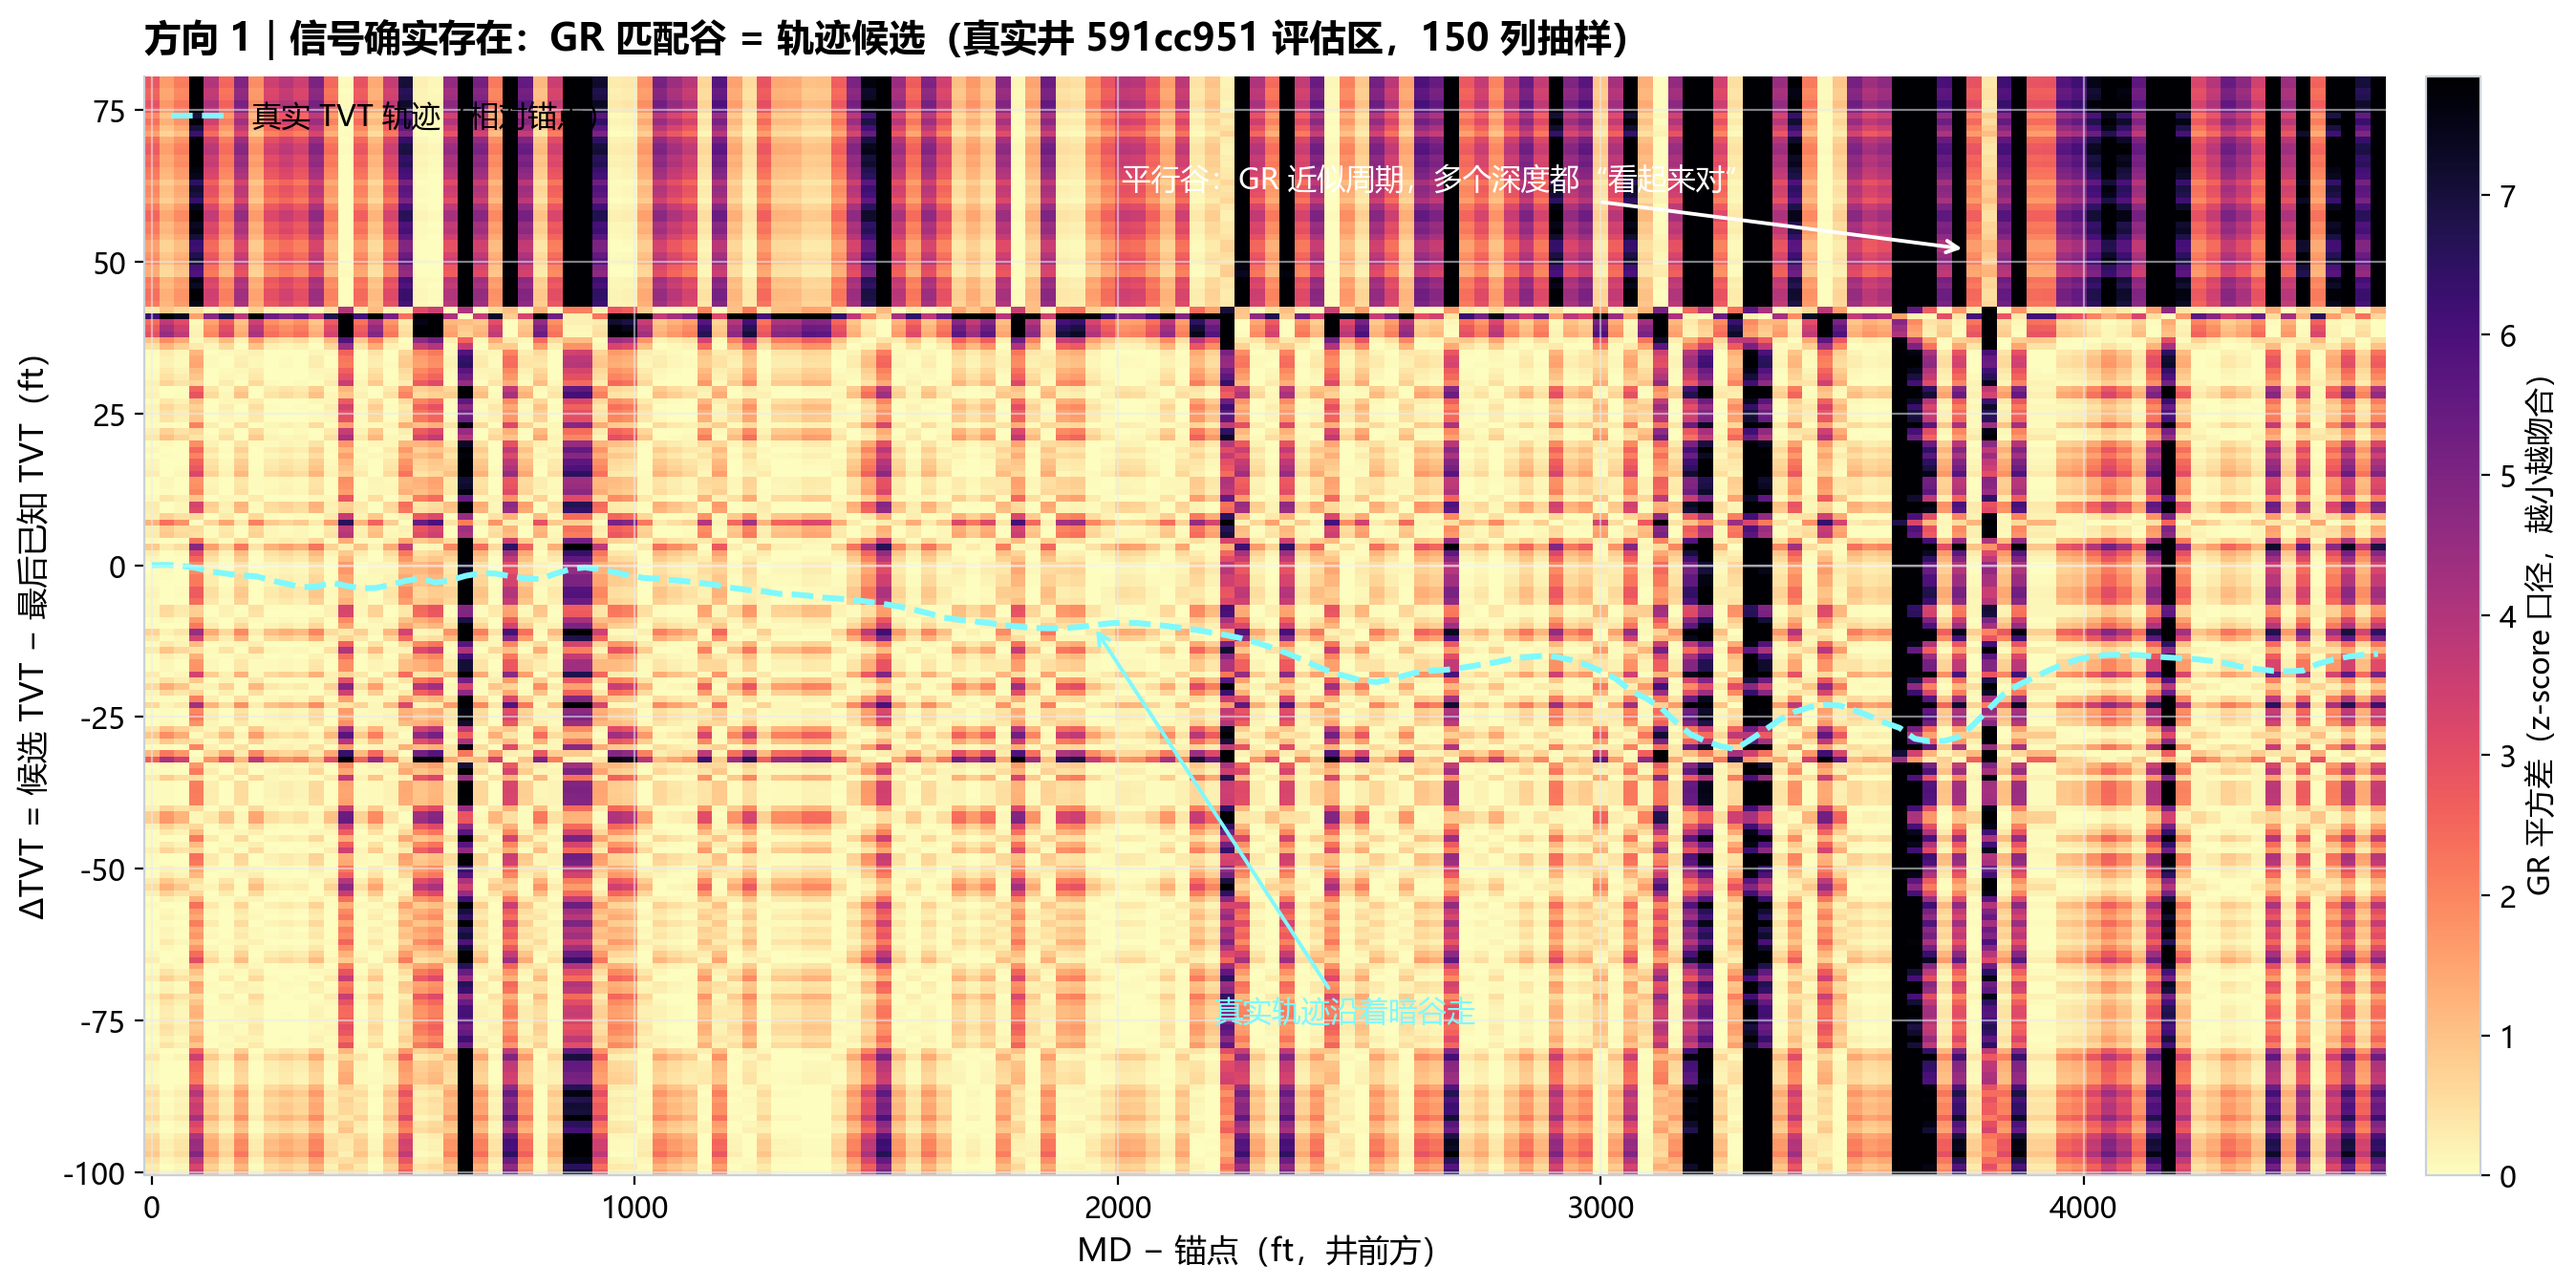
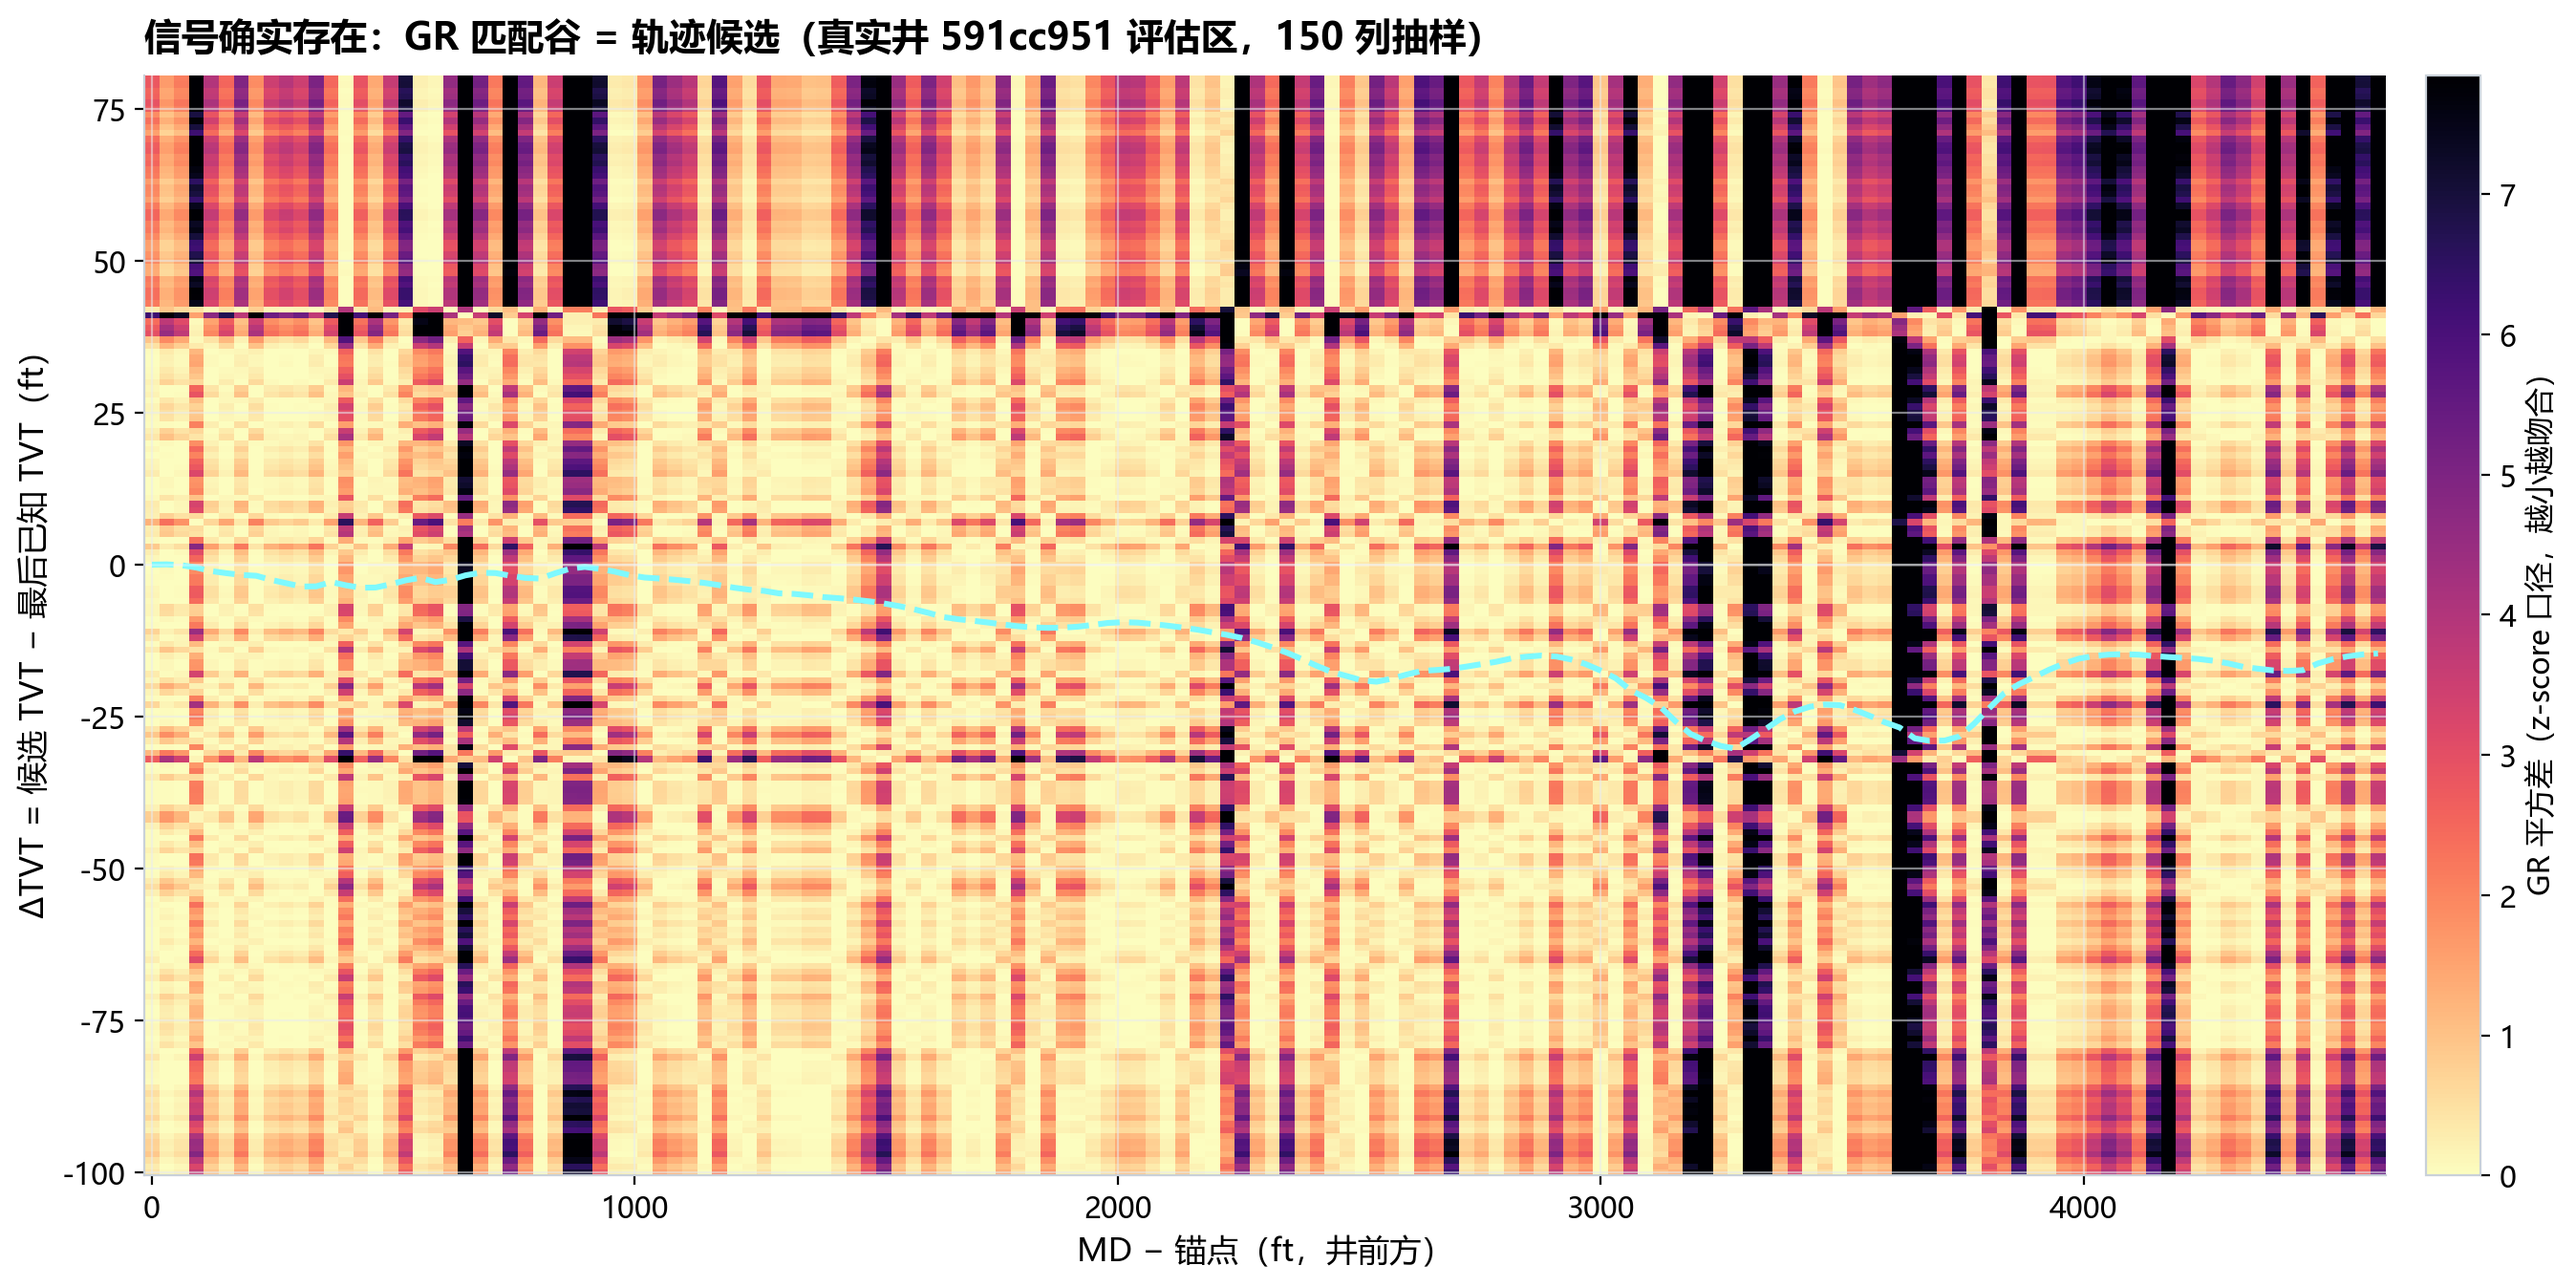
Split problem figure into 3 images, declutter alignment panel, expand score progression with rejected attempts

diff --git a/scripts/make_data_assets.py b/scripts/make_data_assets.py
@@ -75,7 +75,7 @@ def style_ax(ax, title=None, xlabel=None, ylabel=None):
 
 
 def figure_problem_definition():
-    """One real well: input log + target curve + reference typewell map."""
+    """One real well, split into three standalone figures."""
     well = "591cc951"
     hw, tw = load_well(well)
     known = hw["TVT_input"].notna().to_numpy()
@@ -93,13 +93,11 @@ def figure_problem_definition():
     tvt_min, tvt_max = hw.loc[eval_mask, "TVT"].min(), hw.loc[eval_mask, "TVT"].max()
     tw_ok = (tw["TVT"] >= tvt_min - 20) & (tw["TVT"] <= tvt_max + 20)
 
-    fig, axes = plt.subplots(1, 3, figsize=(16.5, 5.6), dpi=200)
-
-    ax = axes[0]
+    # ① input GR log
+    fig, ax = plt.subplots(figsize=(9.2, 5.0), dpi=200)
     ax.axvspan(0, anchor_md, color=BLUE, alpha=0.07)
     ax.axvspan(anchor_md, x.max(), color=ORANGE, alpha=0.09)
     ax.axvline(anchor_md, color=GRAY, ls="--", lw=1.3)
-    # missing spans
     for s, e in _nan_spans(gr_nan, x):
         ax.axvspan(s, e, color=GRAY, alpha=0.22, lw=0)
     ax.plot(x[known], gr_disp[known], color=BLUE, lw=1.4, label="已知前缀 GR")
@@ -113,10 +111,16 @@ def figure_problem_definition():
         ha="left",
         va="top",
     )
-    style_ax(ax, "① 水平井实测 GR 测井", "MD − 井口（ft）", "GR（API）")
+    style_ax(ax, "① 输入：水平井实测 GR 测井（真实井 591cc951）", "MD − 井口（ft）", "GR（API）")
     ax.legend(loc="upper right", fontsize=10)
+    fig.tight_layout()
+    out = os.path.join(ASSETS, "problem_input_log.png")
+    fig.savefig(out, bbox_inches="tight", facecolor="white")
+    plt.close(fig)
+    print("saved", out)
 
-    ax = axes[1]
+    # ② target TVT curve
+    fig, ax = plt.subplots(figsize=(9.2, 5.0), dpi=200)
     ax.axvspan(0, anchor_md, color=BLUE, alpha=0.07)
     ax.axvspan(anchor_md, x.max(), color=ORANGE, alpha=0.09)
     ax.axvline(anchor_md, color=GRAY, ls="--", lw=1.3)
@@ -125,36 +129,22 @@ def figure_problem_definition():
     ax.scatter([anchor_md], [anchor_tvt], s=55, color=ORANGE, zorder=5, edgecolor="white", linewidth=1.2)
     ax.set_ylim(tvt_min - 8, tvt_max + 8)
     ax.invert_yaxis()
-    ax.annotate(
-        f"目标曲线：评估区 TVT 在锚点下方最深约 {anchor_tvt - tvt_min:.0f} ft",
-        xy=(0.5 * x.max(), tvt_min + 2),
-        fontsize=10.5,
-        color=ORANGE,
-    )
-    style_ax(ax, "② 目标 TVT（地层垂直坐标）", "MD − 井口（ft）", "TVT（ft）")
+    style_ax(ax, "② 目标：TVT 地层垂直坐标（真实井 591cc951）", "MD − 井口（ft）", "TVT（ft）")
+    fig.tight_layout()
+    out = os.path.join(ASSETS, "problem_target_curve.png")
+    fig.savefig(out, bbox_inches="tight", facecolor="white")
+    plt.close(fig)
+    print("saved", out)
 
-    ax = axes[2]
+    # ③ reference typewell map
+    fig, ax = plt.subplots(figsize=(7.2, 5.0), dpi=200)
     ax.plot(tw["GR"], tw["TVT"], color=BLUE_L, lw=1.5)
     ax.axhspan(tvt_min - 5, tvt_max + 5, color=ORANGE, alpha=0.16)
     ax.axhline(anchor_tvt, color=GRAY, ls="--", lw=1.2)
     ax.invert_yaxis()
-    ax.annotate(
-        "橙色带 = 本井 TVT 所在层段",
-        xy=(tw["GR"].max() * 0.45, tvt_max + 3),
-        fontsize=10.5,
-        color=ORANGE,
-    )
-    style_ax(ax, "③ 参考直井（typewell）：GR–TVT 地图", "GR（API）", "TVT（ft）")
-
-    fig.suptitle(
-        f"问题定义：把“前方地层在哪一层”变成“把 ① 与 ③ 对齐，在 ② 上继续画曲线”"
-        f"（真实训练井 {well}）",
-        fontsize=15,
-        fontweight="bold",
-        y=1.02,
-    )
-    fig.tight_layout(rect=[0, 0, 1, 0.95])
-    out = os.path.join(ASSETS, "problem_schematic.png")
+    style_ax(ax, "③ 参考地图：typewell 的 GR–TVT 映射", "GR（API）", "TVT（ft）")
+    fig.tight_layout()
+    out = os.path.join(ASSETS, "problem_reference_map.png")
     fig.savefig(out, bbox_inches="tight", facecolor="white")
     plt.close(fig)
     print("saved", out)
@@ -216,31 +206,14 @@ def figure_alignment_panel():
     )
     ax.plot(md_rel, truth, color="#7EF9FF", ls="--", lw=2.2, label="真实 TVT 轨迹（相对锚点）")
     ax.axhline(0, color="white", lw=0.9, alpha=0.35)
-    ax.annotate(
-        "平行谷：GR 近似周期，多个深度都“看起来对”",
-        xy=(md_rel[-1] - 850, 52),
-        xytext=(md_rel[-1] - 2600, 62),
-        fontsize=11,
-        color="white",
-        arrowprops=dict(arrowstyle="->", color="white", lw=1.4),
-    )
-    ax.annotate(
-        "真实轨迹沿着暗谷走",
-        xy=(md_rel[int(n_col * 0.42)], truth[int(n_col * 0.42)]),
-        xytext=(md_rel[int(n_col * 0.42)] + 250, -75),
-        fontsize=11,
-        color="#7EF9FF",
-        arrowprops=dict(arrowstyle="->", color="#7EF9FF", lw=1.4),
-    )
     cb = fig.colorbar(mesh, ax=ax, pad=0.015)
     cb.set_label("GR 平方差（z-score 口径，越小越吻合）", fontsize=11)
     style_ax(
         ax,
-        "方向 1｜信号确实存在：GR 匹配谷 = 轨迹候选（真实井 591cc951 评估区，150 列抽样）",
+        "信号确实存在：GR 匹配谷 = 轨迹候选（真实井 591cc951 评估区，150 列抽样）",
         "MD − 锚点（ft，井前方）",
         "ΔTVT = 候选 TVT − 最后已知 TVT（ft）",
     )
-    ax.legend(loc="upper left", fontsize=11)
     fig.tight_layout(rect=[0, 0, 1, 0.95])
     out = os.path.join(ASSETS, "eda_alignment_panel.png")
     fig.savefig(out, bbox_inches="tight", facecolor="white")
@@ -456,57 +429,93 @@ def figure_processing():
 
 
 def figure_score_progression():
-    milestones = [
-        ("常数外推", 15.883, "本地地板", BLUE),
-        ("LGBM 残差", 13.675, "本地", BLUE_L),
-        ("Dual-PF 复现", 7.113, "公开口径", TEAL),
-        ("GEO-2 物理先验", 7.008, "公榜最佳", TEAL),
-        ("V6 main×soft", 7.9488, "诚实 OOF*", ORANGE),
+    kept = [
+        ("常数外推", 15.883, BLUE, "07-15"),
+        ("门控 LGBM", 13.675, BLUE_L, "07-15"),
+        ("Dual-PF 复现", 7.113, TEAL, "07-18"),
+        ("GEO-2 物理先验", 7.008, TEAL, "07-20"),
     ]
-    xs = np.arange(len(milestones))
-    ys = [m[1] for m in milestones]
-    fig, ax = plt.subplots(figsize=(13.5, 6.0), dpi=200)
-    ax.plot(xs, ys, color=GRAY_L, lw=2, zorder=1)
-    for i, (label, val, tag, color) in enumerate(milestones):
-        marker = "o" if i < 4 else "D"
-        ax.scatter([i], [val], s=190 if i < 4 else 260, color=color, zorder=3,
-                   edgecolor="white", linewidth=1.8, marker=marker)
+    v6 = ("V6 main×soft", 7.9488, ORANGE, "08-05")
+    rejected = [
+        ("nnraw-1", 7.041),
+        ("nnraw-2", 7.103),
+        ("nnraw-3", 7.866),
+        ("dense-U", 7.517),
+        ("RK 残差", 17.904),
+        ("LGB 残差", 11.805),
+        ("align 残差", 9.225),
+        ("geo021", 7.556),
+    ]
+
+    fig, axes = plt.subplots(1, 2, figsize=(16.5, 6.2), dpi=200, gridspec_kw={"width_ratios": [1.25, 1]})
+
+    ax = axes[0]
+    xs = np.arange(len(kept))
+    ys = [m[1] for m in kept]
+    ax.plot(xs, ys, color=GRAY_L, lw=2.0, zorder=1)
+    ax.plot([xs[-1], 4.0], [ys[-1], v6[1]], color=ORANGE, lw=1.8, ls="--", zorder=1)
+    for i, (label, val, color, _) in enumerate(kept):
+        ax.scatter([i], [val], s=170, color=color, zorder=3, edgecolor="white", linewidth=1.6)
         ax.annotate(
-            f"{label}\n{val}",
+            f"{val}",
             xy=(i, val),
-            xytext=(i, val + 1.05),
+            xytext=(i, val + 1.0),
             ha="center",
             fontsize=12,
             fontweight="bold",
             color="#222222",
         )
-        ax.annotate(tag, xy=(i, val), xytext=(i, val - 2.6), ha="center", fontsize=10, color=GRAY)
-    ax.set_xticks(xs)
-    ax.set_xticklabels([m[0] for m in milestones], fontsize=11)
-    ax.set_ylim(3.5, 17.5)
-    ax.set_ylabel("RMSE（ft，越低越好）")
-    ax.invert_yaxis()
-    ax.text(
-        0.015,
-        0.96,
-        "每个里程碑的口径不同（本地 / 公开 / OOF），只展示相对提升，不做跨点直接比较",
-        transform=ax.transAxes,
-        fontsize=10.5,
-        color=GRAY,
-        va="top",
+        ax.annotate(
+            label,
+            xy=(i, val),
+            xytext=(i, val - 3.0),
+            ha="center",
+            fontsize=10.5,
+            color=GRAY,
+        )
+    ax.scatter([4.0], [v6[1]], s=250, color=ORANGE, zorder=4, marker="D",
+               edgecolor="white", linewidth=1.8)
+    ax.annotate(
+        f"{v6[1]}",
+        xy=(4.0, v6[1]),
+        xytext=(4.0, v6[1] + 1.0),
+        ha="center",
+        fontsize=12,
+        fontweight="bold",
+        color=ORANGE,
     )
-    ax.text(
-        0.015,
-        0.08,
-        "*V6 为按井分组的诚实 OOF（7.9488），比公榜口径更严格；最终 Private 排名 487 / 6,125（TOP 8%）",
-        transform=ax.transAxes,
+    ax.annotate(
+        "V6 main×soft",
+        xy=(4.0, v6[1]),
+        xytext=(4.0, v6[1] - 3.0),
+        ha="center",
         fontsize=10.5,
         color=ORANGE,
-        va="bottom",
     )
-    style_ax(ax, "方案演进：RMSE 从 15.883 降到 7.008（−56%），且最终方案经过最严格验证", None, None)
-    ax.grid(axis="y", alpha=0.6)
+    ax.set_xticks(list(xs) + [4.0])
+    ax.set_xticklabels([m[3] for m in kept] + ["08-05"], fontsize=11)
+    ax.set_ylim(3.5, 18.5)
+    ax.set_ylabel("RMSE（ft，越低越好）")
+    ax.invert_yaxis()
+    style_ax(ax, "① 采纳的路线：RMSE 从 15.883 降到 7.008", None, None)
+    ax.grid(axis="y", alpha=0.55)
     ax.grid(axis="x", visible=False)
+
+    ax = axes[1]
+    rej_sorted = sorted(rejected, key=lambda r: r[1])
+    labels = [r[0] for r in rej_sorted]
+    vals = [r[1] for r in rej_sorted]
+    ypos = np.arange(len(vals))
+    ax.barh(ypos, vals, color=GRAY_L, alpha=0.85, height=0.62)
+    for y, v, lab in zip(ypos, vals, labels):
+        ax.text(v + 0.25, y, f"{v}", va="center", fontsize=10.5, color="#444444")
+    ax.set_yticks(ypos)
+    ax.set_yticklabels(labels, fontsize=10.5)
+    ax.set_xlim(0, 19.5)
+    style_ax(ax, "② 被否决的尝试：8 个方向均未进入最终方案", "RMSE（ft）", None)
+    ax.grid(axis="x", alpha=0.55)
+    ax.grid(axis="y", visible=False)
+
     fig.tight_layout()
     out = os.path.join(ASSETS, "score_progression.png")
     fig.savefig(out, bbox_inches="tight", facecolor="white")

diff --git a/README.md b/README.md
@@ -40,7 +40,16 @@ Kaggle 竞赛：[ROGII - Wellbore Geology Prediction](https://www.kaggle.com/com
 目标曲线（TVT），③ 是参考直井提供的“地层地图”。任务可以概括为：**用 ① 和 ③
 对齐，把 ② 从已知段（蓝）继续画进评估区（橙）**。
 
-![真实井示例：输入测井 + 目标曲线 + 参考地图](assets/problem_schematic.png)
+| ① 输入：实测 GR 测井 | ② 目标：TVT 曲线 |
+|---|---|
+| ![输入测井](assets/problem_input_log.png) | ![目标曲线](assets/problem_target_curve.png) |
+
+| ③ 参考地图：typewell 的 GR–TVT 映射 |
+|---|
+| ![参考地图](assets/problem_reference_map.png) |
+
+> 图 ② 中：虚线 = 已知前缀的最后锚点；橙色点 = 锚点位置。图 ③ 中：橙色带 =
+> 本井 TVT 所在层段，虚线 = 锚点对应的参考深度。
 
 ---
 
@@ -100,8 +109,9 @@ Kaggle 竞赛：[ROGII - Wellbore Geology Prediction](https://www.kaggle.com/com
 
 把一口井的评估区渲染成一张 2D 面板：横轴是井前方位置，纵轴是候选 TVT 相对锚点的
 偏移，颜色是实测 GR 与参考直井 GR 的差异。**暗谷 = 该位置地层“最可能”所在的深度**。
-真实轨迹正好沿着谷走——信号是真实存在的。但 GR 近似周期导致多条平行谷，单独做
-全局匹配很容易选错层位，这就是必须以前缀为锚、做多尺度匹配的原因。
+图中白色虚线是这口井的真实 TVT 轨迹。可以看到：真实轨迹正好沿着谷走——信号是
+真实存在的；但 GR 近似周期导致多条平行谷（好几个深度都“看起来对”），单独做全局
+匹配很容易选错层位。这就是必须以前缀为锚、做多尺度匹配的原因。
 
 ![2D GR 对齐面板：把整口井渲染成一张图像](assets/eda_alignment_panel.png)
 
@@ -223,6 +233,11 @@ PARAM_*_FULL_lf.csv（Full773 候选）
 全局融合——每个都记录了失败分类与重开条件，而不是简单地“弃用”。
 
 ![方案演进图](assets/score_progression.png)
+
+> 口径说明：① 中前 4 个节点是公开榜（Public LB）口径，最后一个菱形（V6 7.9488）
+> 是按井分组的诚实 OOF 口径，比公榜更严格，因此数值“回弹”不代表退步；最终 Private
+> 排名 487 / 6,125（TOP 8%）。② 中 8 个被否决的尝试均记录过失败分类（角色错误 /
+> 公榜翻车 / 容量被当能力 / 嵌套 OOF 乐观），没有进入最终方案。
 
 ---
 
